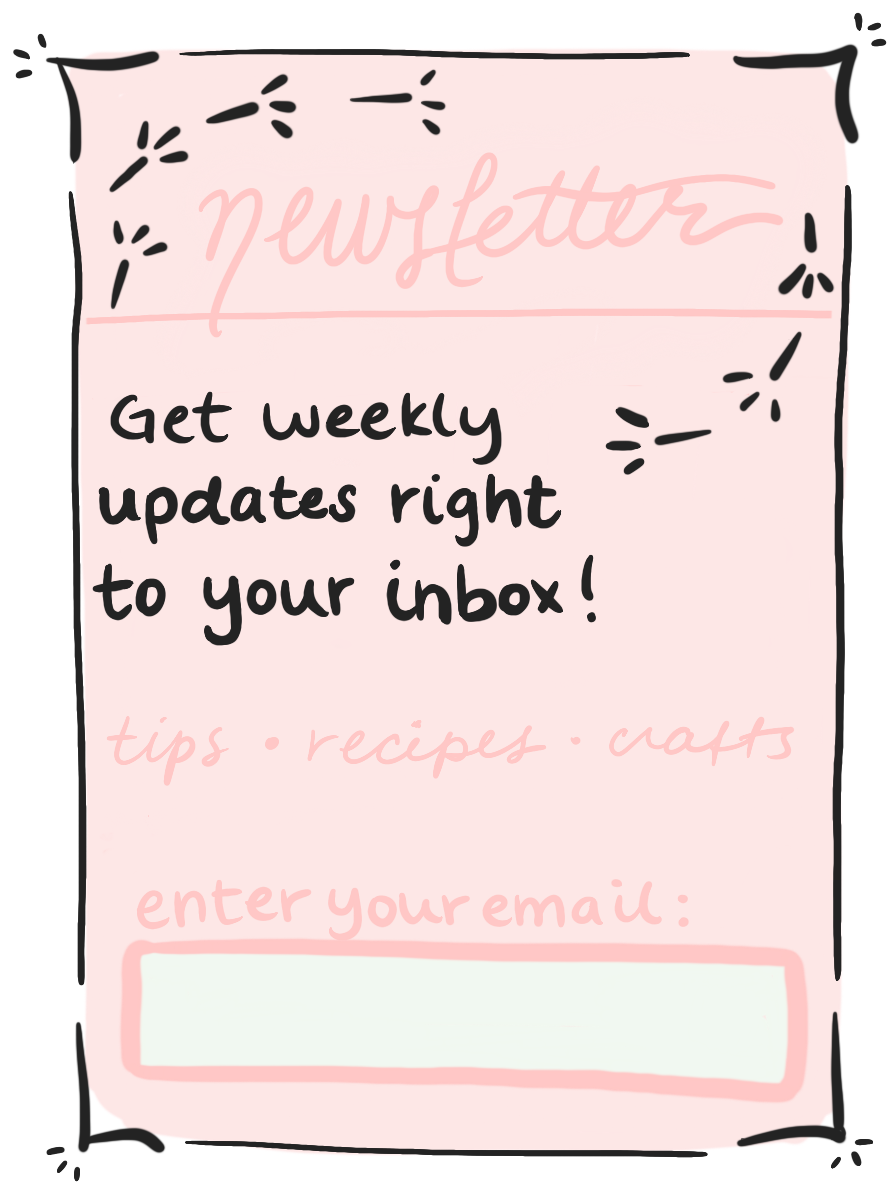
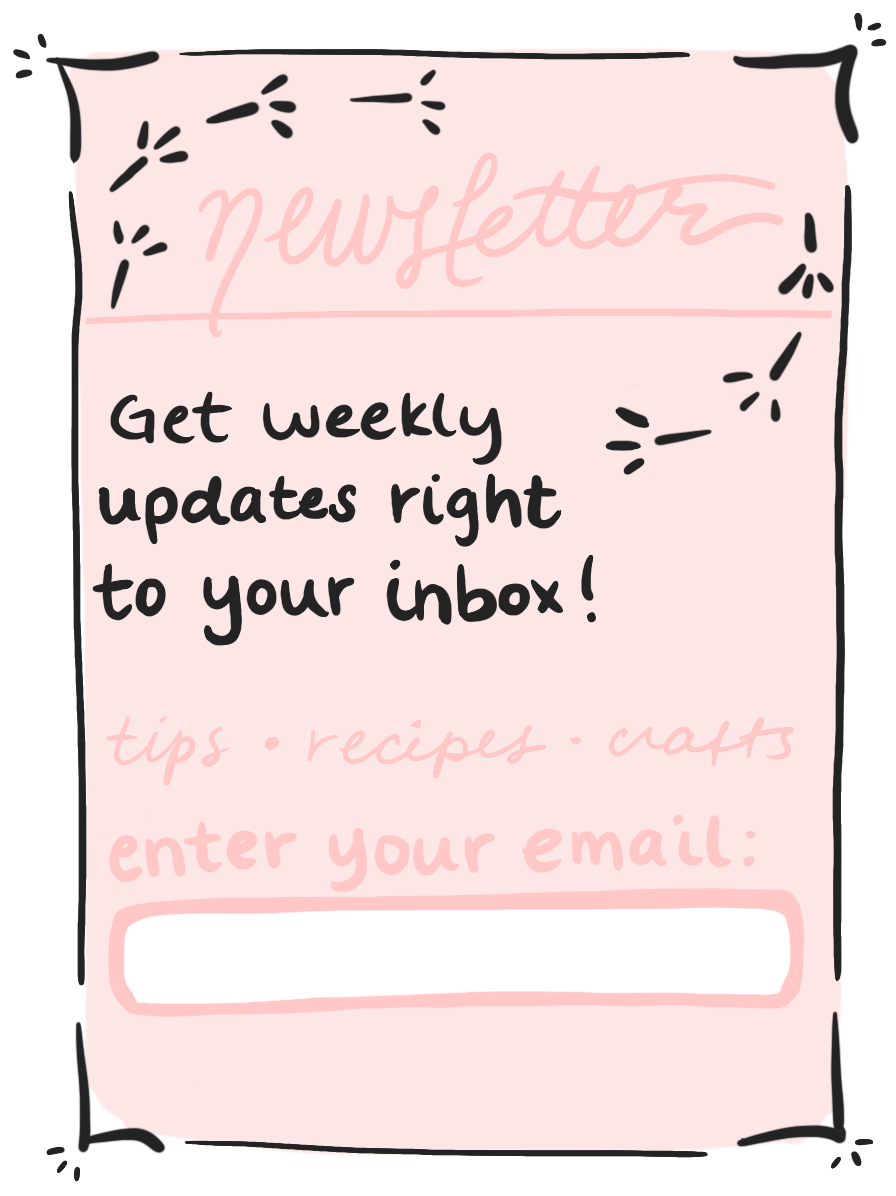
sidebar stuff

Changed region(s): [[0.125, 0.6806, 0.9062, 0.9281]]

diff --git a/index.html b/index.html
@@ -21,7 +21,10 @@ a {
   color: #2D2D2D;
   font-family: Yusei Magic;
   text-decoration: none;
+}
 
+a:hover {
+  color: #fec6c5;
 }
 
 .menu {
@@ -86,14 +89,14 @@ a {
 }
 
 body {
-    font-family: Georgia;
+    font-family: Yusei Magic;
     display: flex;
     flex-direction: column;
     min-height: 100%;
     color: #2D2D2D
   }
 
-  .header {
+.header {
     display: flex;
     padding-bottom: 15px;
     margin-top: 10px;
@@ -129,13 +132,28 @@ h1 {
   width: 30px;
 }
 
+.hover a {
+  color: #2D2D2D
+}
+
+#logo {
+  background-image: url(psfsmall.jpg);
+  background-size: contain;    
+  background-repeat: no-repeat;
+  width: 200px;
+  flex-shrink: 0;
+}
+
   </style></head>
 	<body>
     <div class="socials">
       <li><a href="http://www.instagram.com/poppysseedsfarm"><img src="instagramlink.png"></a></li>
       <li><a href="http://www.facebook.com/poppys.seeds"><img src="facebooklink.png"></a></li>
       <li><a href="mailto:poppys.seeds.farm@gmail.com"><img src="emaillink.png"></a></li></div>
-    <div class="header"><div><img src="psfsmall.jpg"></div>
+    <div class="header"><div id="logo">
+      <!-- <img src="psfsmall.jpg"> -->
+    </div>
+
     <div class="titlecontainer">
       <h1>skills for a sustainable lifestyle</h1>
     <ul class="menu">
@@ -184,12 +202,74 @@ h1 {
     <div class="homepage">
       <div class="blog">@:-) this is a guy<br>@:-) this is a guy<br>@:-) this is a guy<br>@:-) this is a guy<br>@:-) this is a guy<br>@:-) this is a guy<br>@:-) this is a guy<br>@:-) this is a guy<br>@:-) this is a guy<br>@:-) this is a guy<br>@:-) this is a guy<br>@:-) this is a guy<br>@:-) this is a guy<br>@:-) this is a guy<br>@:-) this is a guy<br>@:-) this is a guy<br>@:-) this is a guy<br>@:-) this is a guy<br>@:-) this is a guy<br>@:-) this is a guy<br>@:-) this is a guy<br>@:-) this is a guy<br>@:-) this is a guy<br>@:-) this is a guy<br>@:-) this is a guy<br>@:-) this is a guy<br>@:-) this is a guy<br>@:-) this is a guy<br>@:-) this is a guy<br>@:-) this is a guy<br>@:-) this is a guy<br>@:-) this is a guy<br>@:-) this is a guy<br>@:-) this is a guy<br>@:-) this is a guy<br>@:-) this is a guy<br>@:-) this is a guy<br>@:-) this is a guy<br>@:-) this is a guy<br>@:-) this is a guy<br>@:-) this is a guy<br>@:-) this is a guy<br>@:-) this is a guy<br>@:-) this is a guy<br>hi</div>
 
-      <div class="sidebar"><form action="/emailpage.php"><img src="newslettertest.png"><input type="email" id="email" name="email">
-        <input type="submit">
-      </form></div>
-    </div>
+      <div class="sidebar">
+        <div class="aboutme">about me
+          <img src="aboutmepic.jpeg"></div>
+        <div class="aboutmedes"><b><i>Hi, I'm Sarah</i></b>, and I am a chicken tender, sourdough baker, and all-around homesteading enthusiast in California.<br>I made this blog to document my backyard farming journey and share some tips, tricks, recipes, and projects with anyone who may be interested.<br>Be sure to check out my Instagram and Facebook for more content, and subscribe to my weekly newsletter to get updates as they occur! Happy farming!</div>
+        <div class="newsletter">
+        <form action="https://poppysseedsfarm.us7.list-manage.com/subscribe/post?u=c043bed65c3121f9c7f7b87df&amp;id=57a455e980" method="post" id="mc-embedded-subscribe-form" name="mc-embedded-subscribe-form" class="validate" target="_blank" novalidate>
+	    <input type="email" value="" name="EMAIL" class="email" id="mce-EMAIL" placeholder="email address" required>
+    <!-- real people should not fill this in and expect good things - do not remove this or risk form bot signups-->
+    <div style="position: absolute; left: -5000px;" aria-hidden="true"><input type="text" name="b_c043bed65c3121f9c7f7b87df_57a455e980" tabindex="-1" value=""></div>
+    <div class="clear"><input type="submit" value="Subscribe" name="subscribe" id="mc-embedded-subscribe" class="button"></div></form></div>
+
+</div></div>
 
   <style>
+    .aboutmedes {
+      font-family: Yusei Magic;
+      font-size: 15px;
+      color: #4A4A4A;
+      text-align: center;
+      margin-bottom: 20px;
+      padding-left: 10px;
+      padding-right: 10px;
+      padding-top: 10px;
+      padding-bottom: 0;
+    }
+
+    .aboutme {
+      font-family: Beth Ellen;
+      font-size: 50px;
+      color: #4A4A4A;
+      text-align: center;
+      margin-top: -15px;
+    }
+
+    .aboutme img {
+      width: 225px;
+      display: block;
+      margin: auto;
+      margin-top: -5px;
+    }
+
+    #mc-embedded-subscribe {
+      position: absolute;
+      top: 318px;
+      left: 35px;
+      width: 210px;
+      background-color: #fec6c5;
+      font-family: Yusei Magic;
+      font-weight: bold;
+      color: #4A4A4A;
+      height: 25px;
+      border-radius: 5px;
+      border-color: #4A4A4A;
+      cursor: pointer;
+    }
+
+    #mce-EMAIL {
+      position: absolute;
+      top: 275px;
+      left: 35px;
+      height: 35px;
+      width: 200px;
+      background-color: transparent;
+      border: none;
+      padding-left: 10px;
+      font-family: Yusei Magic;
+    }
+
     html {
       height: 100%;
     }
@@ -208,17 +288,21 @@ h1 {
     }
 
     .sidebar {
-      width: 275px;     
-    }
-
-    .sidebar img {
-      width: 275px;
+      width: 275px; 
     }
 
     form {
       width: 275px;
     }
 
-  </style>
+    .newsletter {
+      background-image: url(newslettertest.png);
+      background-size: contain;    
+      background-repeat: no-repeat;
+      height: 400px;
+      position: relative;
+    }
+
+</style>
 </body>
 </html>
